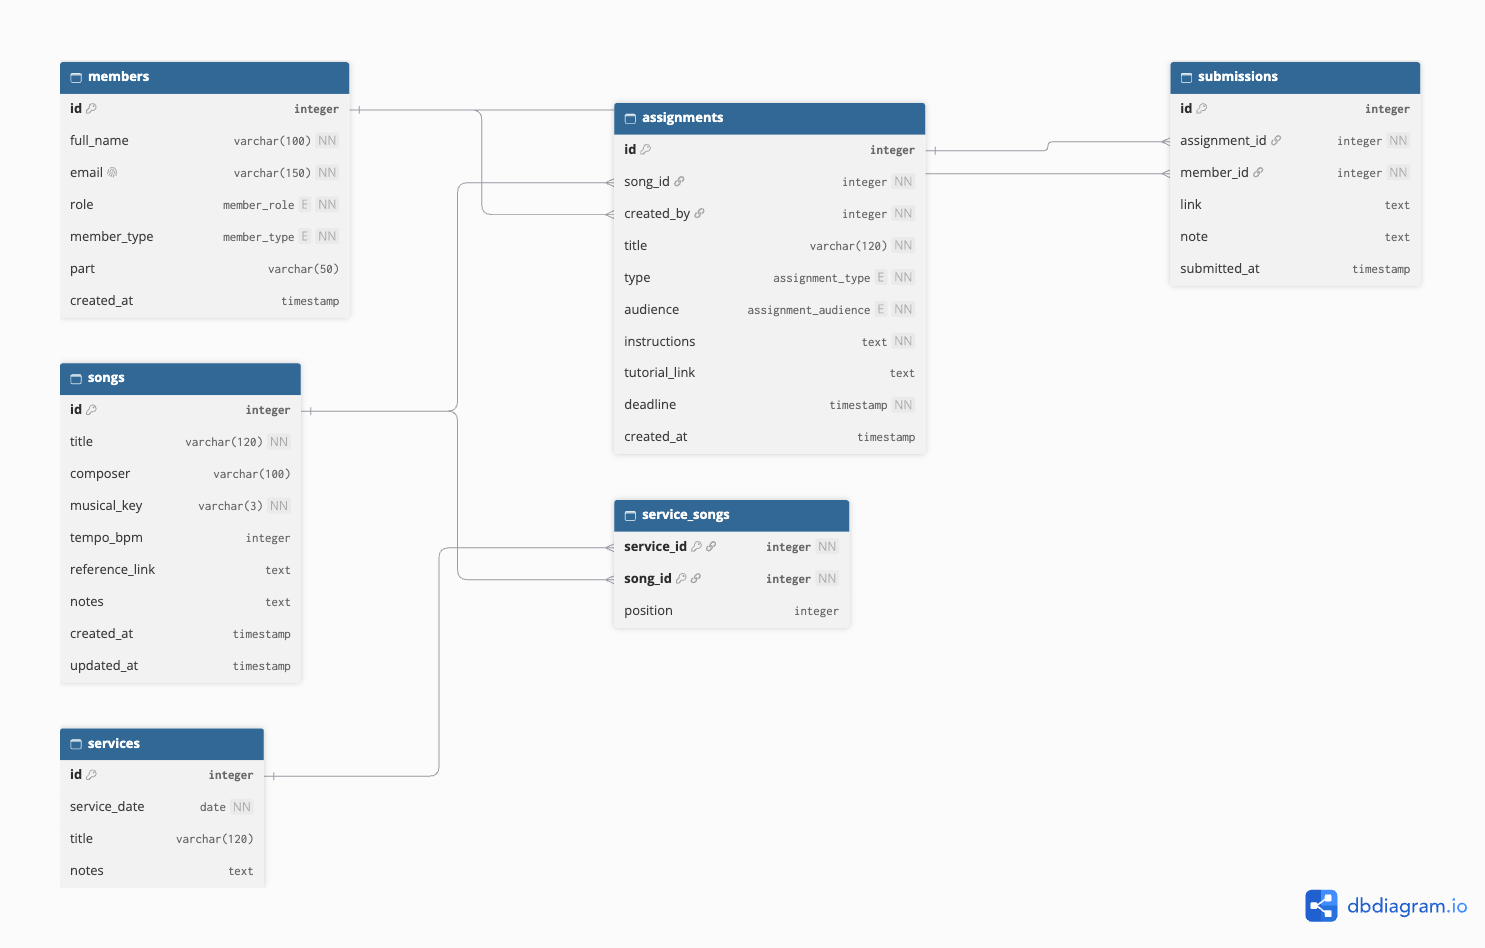
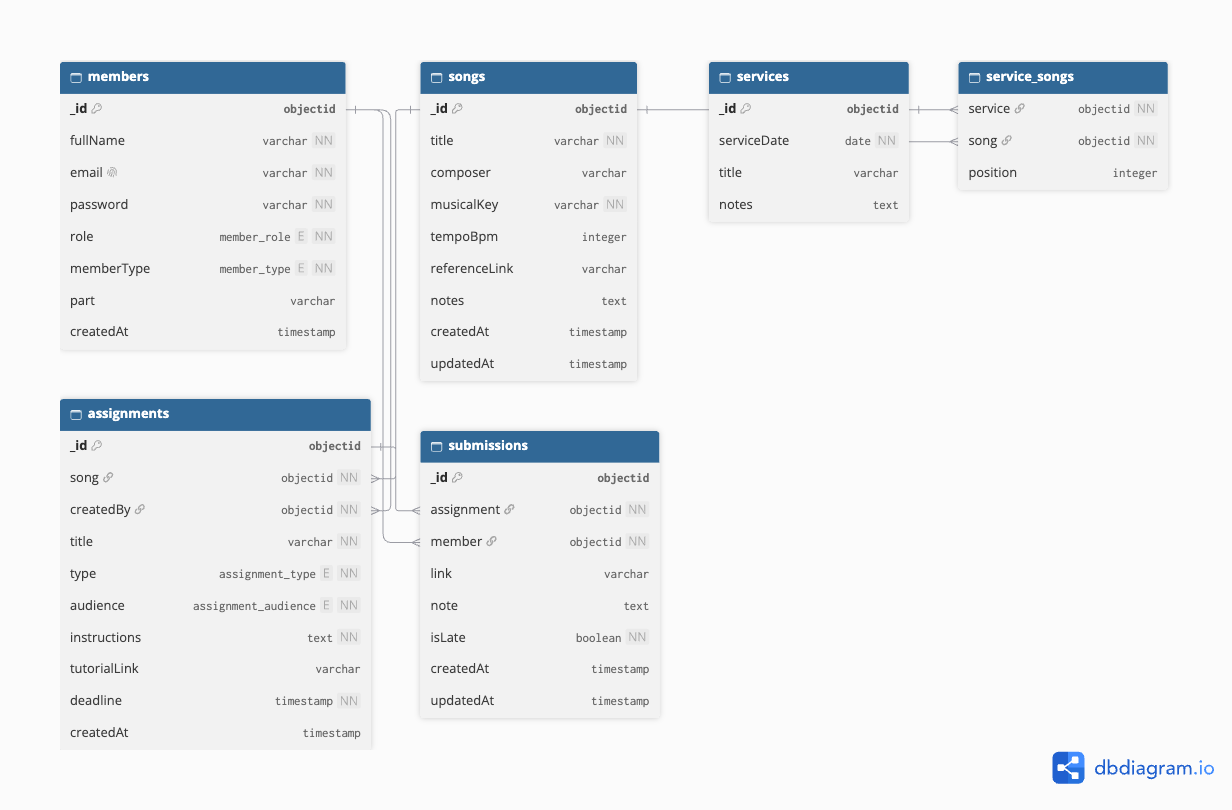
docs: update spec, ERD and collection for week 2

diff --git a/docs/data-model-and-api-spec.md b/docs/data-model-and-api-spec.md
@@ -10,6 +10,7 @@ Database: MongoDB (Mongoose). ERD: see `erd.png` (generated from `erd.dbml` on d
 | _id | ObjectId | |
 | fullName | String | required, max 100 |
 | email | String | required, unique |
+| password | String | required, hashed and hidden from JSON responses |
 | role | String enum: director, member | default member |
 | memberType | String enum: chorister, instrumentalist | required |
 | part | String | voice part or instrument, e.g. alto, keyboard |
@@ -27,7 +28,7 @@ Database: MongoDB (Mongoose). ERD: see `erd.png` (generated from `erd.dbml` on d
 | notes | String | optional |
 | createdAt, updatedAt | Date | automatic timestamps |
 
-**services**
+**services (not built; planned for later)**
 | Field | Type | Notes |
 | --- | --- | --- |
 | _id | ObjectId | |
@@ -58,9 +59,10 @@ Database: MongoDB (Mongoose). ERD: see `erd.png` (generated from `erd.dbml` on d
 | member | ObjectId, ref members | required |
 | link | String | link to recording or photo of paper work |
 | note | String | optional |
-| submittedAt | Date | used to flag late work |
+| isLate | Boolean | set by the server based on the assignment deadline; default false |
+| createdAt, updatedAt | Date | automatic timestamps; `createdAt` is the submission time |
 
-Unique index: `{ assignment, member }`, so one submission per member per assignment.
+Unique index: `{ assignment, member }`, so a member can create one submission per assignment. A repeated create returns 409; an existing submission can be edited with PUT.
 
 ## Relationships
 - A song has many assignments (one-to-many, reference)
@@ -75,27 +77,39 @@ Unique index: `{ assignment, member }`, so one submission per member per assignm
 - **Setlist embedded in the service:** a setlist is small and always read with its service, so one document is simpler than a join collection.
 - **Links, not file uploads:** submissions store a link (Drive, YouTube) or a note. This keeps the API light and avoids file storage.
 - **Enums for role, type and audience:** limits values to known options and makes validation simple.
-- **One submission per member per assignment:** enforced by a unique index; a resubmission updates the existing one.
+- **One submission per member per assignment:** enforced by a unique index; a repeated create returns 409 and an existing submission can be edited with PUT.
 - **musicalKey as validated text:** keys follow a fixed pattern (letter A-G, optional # or b, optional m for minor).
 
-## Week 1 endpoints: Songs (built and tested this week)
+## Built API endpoints
 
-Base path: `/api`. `:id` is a MongoDB ObjectId (24 hex characters).
+Base path: `/api`. `:id` is a MongoDB ObjectId (24 hexadecimal characters).
 
-| Method | Path | Purpose | Request body | Success response | Errors |
-| --- | --- | --- | --- | --- | --- |
-| POST | /songs | Create a song | title, musicalKey (required); composer, tempoBpm, referenceLink, notes | 201 + created song | 400 invalid input |
-| GET | /songs | List all songs | none | 200 + array of songs | none |
-| GET | /songs/:id | Get one song | none | 200 + song | 400 invalid id, 404 not found |
-| PUT | /songs/:id | Update a song | same fields as create | 200 + updated song | 400 invalid input or id, 404 not found |
-| DELETE | /songs/:id | Delete a song | none | 200 + `{ "message": "Song deleted" }` | 400 invalid id, 404 not found |
+| Method | Path | Access | Request body | Success | Errors |
+| ------ | ---------------------------- | ---------------------- | ---------------------------------------------------------------------------- | -------------------- | ---------------------------------------------- |
+| GET | /health | Public | none | 200 | none |
+| POST | /auth/signup | Public | fullName, email, password, memberType, part (optional) | 201 member | 400, 409 |
+| POST | /auth/login | Public | email, password | 200 token and member | 400, 401 |
+| GET | /auth/me | Logged in | none | 200 member | 401 |
+| GET | /songs | Logged in | none | 200 | 401 |
+| POST | /songs | Director | title, musicalKey, plus optional fields | 201 | 400, 401, 403 |
+| GET | /songs/:id | Logged in | none | 200 | 400, 401, 404 |
+| PUT | /songs/:id | Director | title, musicalKey, plus optional fields | 200 | 400, 401, 403, 404 |
+| DELETE | /songs/:id | Director | none | 200 | 400, 401, 403, 404, 409 (song has assignments) |
+| GET | /songs/:id/assignments | Logged in | none | 200 | 400, 401, 404 |
+| GET | /assignments | Logged in | none | 200 | 401 |
+| POST | /assignments | Director | song, title, type, audience, instructions, deadline, tutorialLink (optional) | 201 | 400, 401, 403, 404 (song missing) |
+| GET | /assignments/:id | Logged in | none | 200 | 400, 401, 404 |
+| PUT | /assignments/:id | Creating director | any of title, type, audience, instructions, tutorialLink, deadline | 200 | 400, 401, 403, 404 |
+| DELETE | /assignments/:id | Creating director | none | 200 | 400, 401, 403, 404, 409 (has submissions) |
+| POST | /assignments/:id/submissions | Member in the audience | link, note (optional) | 201 | 400, 401, 403, 404, 409 (already submitted) |
+| GET | /assignments/:id/submissions | Director | none | 200 | 400, 401, 403, 404 |
+| GET | /submissions/mine | Member | none | 200 | 401, 403 |
+| GET | /submissions/:id | Owning member | none | 200 | 400, 401, 403, 404 |
+| PUT | /submissions/:id | Owning member | link, note | 200 | 400, 401, 403, 404 |
+| DELETE | /submissions/:id | Owning member | none | 200 | 400, 401, 403, 404 |
 
-Validation rules (songs):
-- title: required, 1 to 120 characters
-- musicalKey: required, pattern letter A-G, optional # or b, optional m
-- tempoBpm: optional, whole number from 30 to 240
-- referenceLink: optional, must be a valid URL
+Services and setlists endpoints: **Not built. Planned for later.**
 
-## Planned endpoints (not built yet)
-- Week 2: auth (sign-up, login), members, services and setlists, assignments, submissions
-- Details will be added to this spec when each is built.
+Errors use the shape `{ "error": { "code": "...", "message": "..." } }`.
+
+Duplicate member email and duplicate member/assignment submissions return 409. Deleting a song that has assignments or an assignment that has submissions also returns 409. Request bodies are validated with Zod at the API boundary and Mongoose at the model layer.

diff --git a/README.md b/README.md
@@ -10,32 +10,49 @@ Node.js, Express, MongoDB (Mongoose), Zod
 
 Week 1: Songs CRUD (create, list, get one, update, delete). Week 2: authentication, assignments, and submissions.
 
-## How to run (local)
+## Run locally
 
-1. Install Node.js. Install MongoDB locally, or create a free MongoDB Atlas cluster.
-2. Clone the repo and run `npm install`.
-3. Copy `.env.example` to `.env` and set `MONGODB_URI` to your own connection string.
-4. Seed sample data with `npm run seed`.
-5. Start the server with `npm run dev`. The API runs on `http://localhost:3006/api`.
+1. Install Node.js and use a local MongoDB instance or an Atlas database.
+2. Run `npm install`.
+3. Copy `.env.example` to `.env` and set `MONGODB_URI` to your development database. The JWT values in the example are fake development placeholders; use your own local values when needed.
+4. Run `npm run seed` to reset and populate the database.
+5. Run `npm run dev`. The API base URL is `http://localhost:3006/api`.
 
-## Endpoints
+## Seed accounts and authentication
 
-| Method | Path           | Purpose       |
-| ------ | -------------- | ------------- |
-| POST   | /api/songs     | Create a song |
-| GET    | /api/songs     | List songs    |
-| GET    | /api/songs/:id | Get one song  |
-| PUT    | /api/songs/:id | Update a song |
-| DELETE | /api/songs/:id | Delete a song |
-| GET | /api/songs/:id/assignments | List a song's assignments |
-| GET, POST | /api/assignments | List or create assignments |
-| GET, PUT, DELETE | /api/assignments/:id | Read or manage an assignment |
-| POST | /api/assignments/:id/submissions | Submit work for an assignment |
-| GET | /api/assignments/:id/submissions | List an assignment's submissions (director) |
-| GET | /api/submissions/mine | List the logged-in member's submissions |
-| PUT, DELETE | /api/submissions/:id | Update or delete an owned submission |
+`npm run seed` creates these local test accounts. All four use password `Password123`.
 
-Full details: `/docs/data-model-and-api-spec.md`
+| Role | Email |
+| --- | --- |
+| Director | `director@example.com` |
+| Director | `director2@example.com` |
+| Member (chorister) | `member@example.com` |
+| Member (instrumentalist) | `member2@example.com` |
+
+Log in with `POST /auth/login` and copy the returned token. Send it on protected requests in the `Authorization` header as `Bearer <token>`.
+
+```bash
+curl -X POST http://localhost:3006/api/auth/login \
+  -H 'Content-Type: application/json' \
+  -d '{"email":"director@example.com","password":"Password123"}'
+```
+
+Copy `token` from that response into a local shell variable, then attach it to protected requests:
+
+```bash
+TOKEN='<token returned by login>'
+curl http://localhost:3006/api/auth/me -H "Authorization: Bearer $TOKEN"
+```
+
+## API and test requests
+
+See the [built API spec](docs/data-model-and-api-spec.md) and [permissions table](docs/permissions-and-endpoints.md). The versioned [Postman Collection v2.1](docs/postman/music-ministry-hub.postman_collection.json) includes Auth, Songs, Assignments, and Submissions requests, including expected 401, 403, and 409 failures. Tokens belong in a local Postman environment; never commit them.
+
+All API errors use `{ "error": { "code": "...", "message": "..." } }`.
+
+## Week 2 feedback response
+
+Week 2 addressed feedback around clear access rules and reliable input handling by adding role and owner checks, Zod request validation, duplicate protection, and 409 conflicts when a parent still has child records. Services and setlists are marked as planned for later.
 
 ## Docs
 
@@ -43,6 +60,10 @@ Full details: `/docs/data-model-and-api-spec.md`
 - `/docs/work-plan.md`
 - `/docs/data-model-and-api-spec.md`
 - `/docs/erd.dbml` and `erd.png`
+- `/docs/permissions-and-endpoints.md`
+- `/docs/postman/music-ministry-hub.postman_collection.json`
+
+[Issue log (Week 2)](#issue-log-week-2)
 
 ## Issue Log week 2
 

diff --git a/docs/permissions-and-endpoints.md b/docs/permissions-and-endpoints.md
@@ -1,0 +1,41 @@
+# Permissions and Built Endpoints
+
+## Roles
+
+- **Member:** default role created through sign-up.
+- **Director:** can manage songs and create assignments. Sign-up cannot set this role; the seed creates the director accounts.
+
+## Rules
+
+- Sign-up always creates a member. A submitted `role` field is dropped.
+- Passwords are hashed with bcrypt and omitted from JSON responses.
+- Missing or invalid authentication returns **401**. Authenticated users without permission receive **403**.
+- Duplicate email, duplicate submission, deleting a song with assignments, and deleting an assignment with submissions return **409**.
+- Members can submit only to assignments for their group (`choristers`, `instrumentalists`, or `all`).
+- A submission after its deadline is accepted and marked late. Editing it recomputes `isLate`.
+- Assignment updates/deletes are limited to the creating director. Submission reads/updates/deletes are limited to the owning member, except assignment submission lists, which directors can view.
+
+## Built endpoints
+
+| Method | Path | Access |
+| --- | --- | --- |
+| GET | `/api/health` | Public |
+| POST | `/api/auth/signup` | Public |
+| POST | `/api/auth/login` | Public |
+| GET | `/api/auth/me` | Logged in |
+| GET | `/api/songs` | Logged in |
+| POST | `/api/songs` | Director |
+| GET | `/api/songs/:id` | Logged in |
+| PUT, DELETE | `/api/songs/:id` | Director |
+| GET | `/api/songs/:id/assignments` | Logged in |
+| GET | `/api/assignments` | Logged in |
+| POST | `/api/assignments` | Director |
+| GET | `/api/assignments/:id` | Logged in |
+| PUT, DELETE | `/api/assignments/:id` | Creating director |
+| POST | `/api/assignments/:id/submissions` | Member in the audience |
+| GET | `/api/assignments/:id/submissions` | Director |
+| GET | `/api/submissions/mine` | Member |
+| GET | `/api/submissions/:id` | Owning member |
+| PUT, DELETE | `/api/submissions/:id` | Owning member |
+
+Services and setlists: **Not built. Planned for later.**
